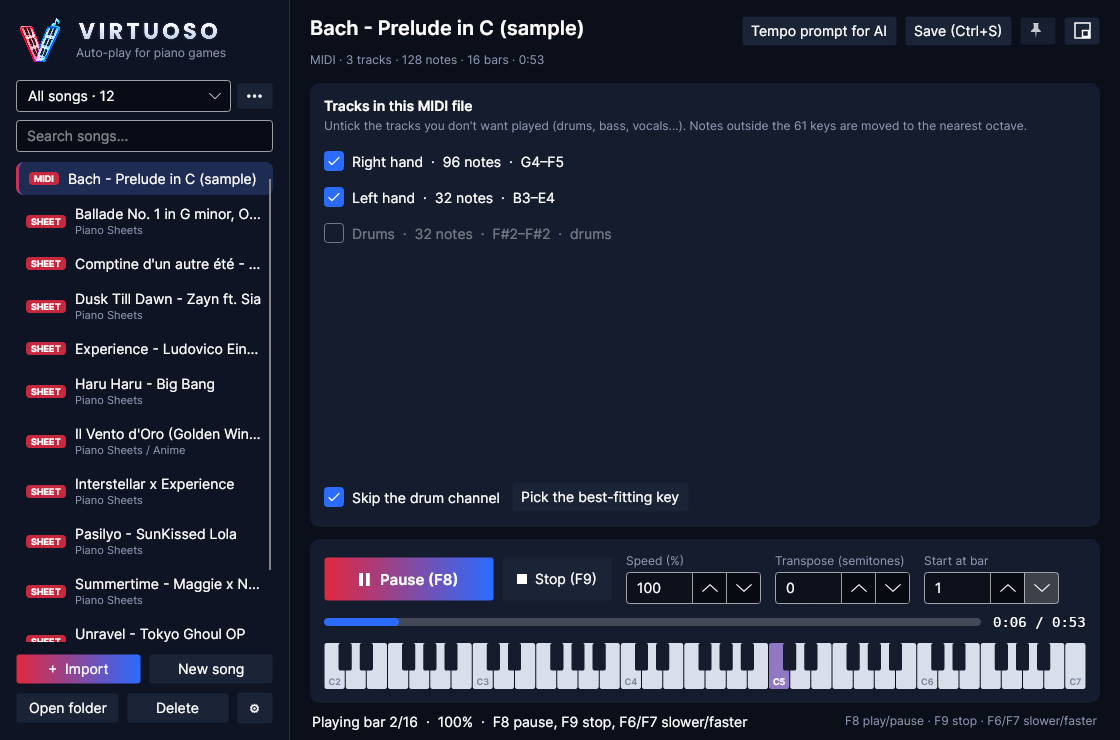
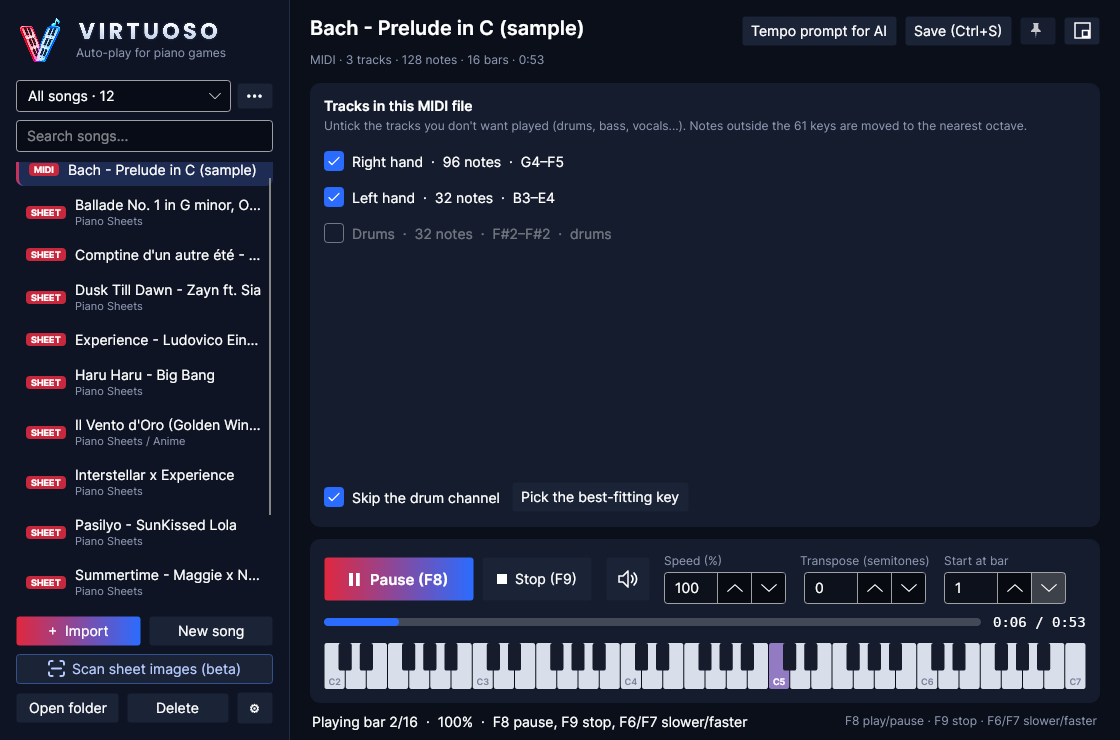
Add files via upload

Changed region(s): [[0.0, 0.2176, 0.25, 0.9324], [0.3125, 0.7459, 0.9688, 0.8392]]

diff --git a/README.md b/README.md
@@ -36,7 +36,14 @@ Load a sheet or a MIDI file, press **F8** in the game, and listen.
 | 🔄 **Automatic updates** | Virtuoso tells you when a new version is out and installs it in one click. Every update is digitally signed and checked before it runs. |
 | 📂 **Your own folders** | Click **Open folder** and every sheet and MIDI file in it shows up in the list, sub-folders included. Files stay where they are, and new ones appear by themselves. You can also drag files or folders onto the window. |
 | ✨ **Follow along** | While a song plays, the note being played lights up in the sheet and the editor scrolls with it. An on-screen piano shows which keys are pressed. |
+| 📷 **Scan sheet music** <sup>beta</sup> | Cut a page of piano sheet music with <kbd>Win</kbd>+<kbd>Shift</kbd>+<kbd>S</kbd> and press <kbd>Ctrl</kbd>+<kbd>V</kbd> in Virtuoso — or drop images or a PDF on the window. Virtuoso reads the notes and writes a sheet you can play right away, with the original pages beside the editor so you can check and fix it. |
+| 🔊 **Listen first** | The speaker button plays the song through your speakers, without sending any keys to the game. |
+| 🧾 **MusicXML** | Import `.musicxml` / `.mxl` files from MuseScore, Finale, Sibelius and others; repeats and 1st/2nd endings are written out. |
 | 🪟 **Compact & always on top** | Switch to a small player that sits next to the game (<kbd>Ctrl</kbd>+<kbd>M</kbd>) and pin it above the game (<kbd>Ctrl</kbd>+<kbd>T</kbd>). The song list is one click away. |
+
+<p align="center">
+  <img src="assets/screenshot-scan.png" alt="A scanned sheet next to the original pages" width="100%">
+</p>
 
 <p align="center">
   <img src="assets/screenshot-compact.png" alt="Compact mode while playing" width="46%">
@@ -89,6 +96,18 @@ Inside Virtuoso:
 | <kbd>F5</kbd> | Read the folders again |
 
 Right-click a line in the sheet editor and choose **Play from this line** to start there.
+
+## 📷 Scanning sheet music (beta)
+
+1. Press <kbd>Win</kbd>+<kbd>Shift</kbd>+<kbd>S</kbd>, cut out the first page of the sheet, then press <kbd>Ctrl</kbd>+<kbd>V</kbd> in Virtuoso. The **Scan sheet images** window opens with that page.
+2. Cut the next page and press <kbd>Ctrl</kbd>+<kbd>V</kbd> again — pages are added in order (use **Up** / **Down** if needed). You can also add image files or a whole PDF.
+3. Give the song a title and press **Scan**. It takes about 10–30 seconds per page.
+4. The new sheet opens in the editor with the **Original pages** beside it. Set the tempo (BPM), press the 🔊 button to listen, and fix what sounds wrong.
+
+The first scan downloads the scanner once (about 69 MB). It is [Audiveris](https://github.com/Audiveris/audiveris), free open-source music recognition, and everything runs on your computer — no pages are uploaded anywhere.
+
+> [!TIP]
+> Results are best with clean, straight pages of printed piano music: a full-width screenshot or a PDF works better than a photo taken at an angle. Notes usually come out right; the rhythm can be off in a few bars, and the tempo and D.S./D.C. jumps are not read yet.
 
 ## 🎼 Sheet formats
 
@@ -187,9 +206,16 @@ In `%AppData%\Virtuoso\Songs`. Click **Open folder** in the app to go there. Uni
 
 ## 🔒 Privacy
 
-Virtuoso does not collect or send any personal data. The only internet access is the update check, which downloads release information from this page.
+Virtuoso does not collect or send any personal data. The only internet access is the update check, which downloads release information from this page, and — only when you scan sheet music for the first time — the download of the scanner from this page. Scanning itself runs entirely on your computer.
 
 ## 📝 Changelog
+
+**1.3.5** — beta of sheet scanning
+- Scan sheet music: paste pages cut with <kbd>Win</kbd>+<kbd>Shift</kbd>+<kbd>S</kbd> (<kbd>Ctrl</kbd>+<kbd>V</kbd>), or drop images or a PDF. The original pages open beside the editor.
+- The scanner (Audiveris, ~69 MB) is downloaded on first use and can be removed in Settings.
+- Many rhythm mistakes of the recognition are repaired automatically from where the notes are printed.
+- Listen: play the song through the speakers without sending keys to the game.
+- Import MusicXML (`.musicxml`, `.mxl`).
 
 **1.3.0**
 - Compact mode: a small player to keep next to the game; the song list folds into a button.
@@ -218,3 +244,5 @@ Virtuoso simulates keyboard presses to play virtual pianos. Some games and platf
 Virtuoso is an independent product and is **not affiliated with, endorsed by or sponsored by Roblox Corporation** or any game developer. All trademarks belong to their respective owners. No songs are included; only load music you have the right to use.
 
 © 2026 Virtuoso. All rights reserved. Use of the software is subject to the license agreement shown in the installer.
+
+The optional sheet scanner is [Audiveris](https://github.com/Audiveris/audiveris) 5.10.2, © Hervé Bitteur and the Audiveris contributors, licensed under the [GNU AGPL-3.0](https://github.com/Audiveris/audiveris/blob/5.10.2/LICENSE). It is downloaded separately, unchanged, and runs as its own program; its complete source code is at [github.com/Audiveris/audiveris/tree/5.10.2](https://github.com/Audiveris/audiveris/tree/5.10.2).
